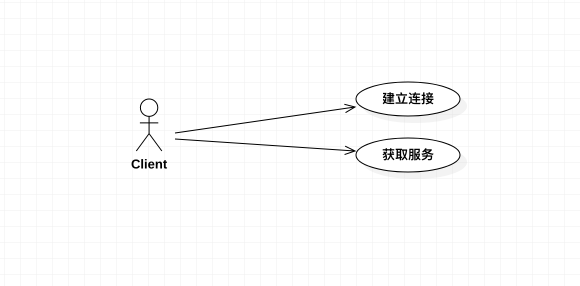
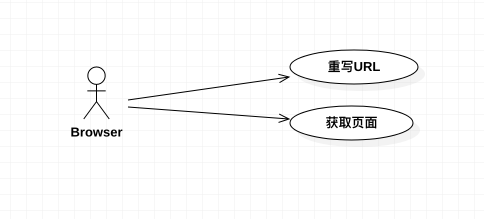
#4 #5 #6 #386 提交实验六（补交实验四、五并修改实验二、三）

diff --git a/students/1714080902333/lab2.md b/students/1714080902333/lab2.md
@@ -14,47 +14,46 @@
 1. 选题为HTTP Server
 2. 根据选题创建用例图（Use Case Diagram）
 3. 确定参与者（Actor）
-    - 客户端
+    - 浏览器
 4. 确定用例（Use Case）
-    - 建立连接
-    - 获取服务
+    - 获取页面
+    - 重写URL
 5. 建立Actor与Use Case的关联
 6. 完成用例规约（Use Case Specification）
 
 ## 四、实验结果
 
 ### 1. Use Case Diagram
-![Lab2-HTTP_UseCaseDiagram](./lab2_UseCaseDiagram.jpg)
+![lab2-HTTP_UseCaseDiagram](./lab2_UseCaseDiagram.jpg)
 
 ### 2. Use Case Specification
 
-**Specification 1**: 建立连接
+**Specification 1**: 获取页面
 
 | 用例编号 | UC01 | 备注 |
 | ------- | ---- | --- |
-| 用例名称 | 建立连接 |  |
-| 前置条件 | 客户端完成socket的配置 | 必须 |
+| 用例名称 | 获取页面 |  |
+| 前置条件 | 浏览器与服务器成功建立TCP连接 | 必须 |
 | 后置条件 |  |  |
-| 基本流程 | 1. 客户端调用connect发起连接请求； | 用例正常处理流程 |
-| ~ | 2. 服务器接收到请求，允许连接，向客户端发送应答报文； | |
-| ~ | 3. 客户端收到应答报文后从connect调用返回，提示单向连接完成并向服务器发送确认报文； | |
-| ~ | 4. 服务器收到确认报文后从accept调用返回，提示双向连接完成； | |
-| 拓展流程 | 2.1 服务器接收到请求，拒绝连接，向客户端发送RST报文； | 用例执行异常 |
-| ~ | 3.1 客户端收到RST报文，提示连接建立失败并返回errno； | |
-| ~ | 3.2 客户端未收到应答报文，connect调用超时，提示连接建立失败并返回errno； | |
+| 基本流程 | 1. 浏览器向服务器发送请求报文 | 用例正常处理流程 |
+| ~ | 2. 服务器获取浏览器请求报文 | |
+| ~ | 3. 服务器解析请求报文成功，查找页面文件 | |
+| ~ | 4. 服务器查找页面文件成功，准备响应报文 | |
+| ~ | 5. 服务器向客户端发送响应报文 | |
+| ~ | 6. 浏览器获取响应报文，显示页面 | |
+| 拓展流程 | 3.1 服务器解析请求报文失败，发送状态码400响应报文 | 用例执行异常 |
+| ~ | 4.1 服务器查找页面文件失败，发送状态码404响应报文 | |
 
-**Specification 2**: 获取服务
+**Specification 2**: 重写URL
 
 | 用例编号 | UC02 | 备注 |
 | ------- | ---- | --- |
-| 用例名称 | 获取服务 |  |
-| 前置条件 | 客户端与服务器的连接已建立 | 必须 |
+| 用例名称 | 重写URL |  |
+| 前置条件 | 浏览器与服务器成功建立TCP连接 | 必须 |
 | 后置条件 |  |  |
-| 基本流程 | 1. 客户端发送请求报文至服务器，获取相关服务 | 用例正常处理流程 |
-| ~ | 2. 服务器接收并解析请求报文 | |
-| ~ | 3. 服务器成功获取请求的资源，发送响应报文发送至客户端 | |
-| ~ | 4. 客户端接收并解析响应报文，显示资源 | |
-| 拓展流程 | 2.1 服务器无法解析请求报文，发送状态码400报文至客户端 | 用例执行异常 |
-| ~ | 2.2 服务器无法找到请求的资源，发送状态码404报文至客户端 |  |
-| ~ | 4.1 客户端收到状态码400报文，提示400 Bad Request |  |
-| ~ | 4.2 客户端收到状态码404报文，提示404 Not Found |  |
+| 基本流程 | 1. 浏览器向服务器发送URL | 用例正常处理流程 |
+| ~ | 2. 服务器获取URL | |
+| ~ | 3. 服务器匹配URL成功，重写URL | |
+| ~ | 4. 服务器向客户端发送重写后的URL | |
+| ~ | 5. 浏览器获取URL | |
+| 拓展流程 | 3.1 服务器匹配URL失败，向客户端发送原URL | 用例执行异常 |

diff --git a/students/1714080902333/lab6.md b/students/1714080902333/lab6.md
@@ -1,0 +1,27 @@
+# 实验六：交互建模
+
+## 一、实验目标
+
+1. 理解系统交互
+2. 掌握UML顺序图的画法
+3. 掌握对象交互的定义与建模方法
+
+## 二、实验内容
+
+1. 根据用例模型和类模型，确定功能所涉及的系统对象；
+2. 在顺序图上画出参与者（Object）；
+3. 在顺序图上画出消息（Interaction）。
+
+## 三、实验步骤
+
+1. 在StarUML上创建顺序图
+2. 根据用例规约和类图，画出1+N个参与者
+
+## 四、实验结果
+
+### 1. 获取页面顺序图
+![获取页面顺序图](./Lab6_SequenceDiagram1.jpg)
+
+### 2. 重写URL顺序图
+![重写URL顺序图](./Lab6_SequenceDiagram2.jpg)
+

diff --git a/students/1714080902333/lab4-5.md b/students/1714080902333/lab4-5.md
@@ -1,0 +1,27 @@
+# 实验四、五：类建模
+
+## 一、实验目标
+
+1. 掌握类建模方法；
+2. 了解MVC或你熟悉的设计模式；
+3. 了解类图（Class Diagram）画法。
+
+## 二、实验内容
+
+1. 采用Strategy设计模式来实现组件松耦合；
+2. 设计类的关系；
+3. 画出类图。
+
+## 三、实验结果
+
+### 1. 获取页面类图
+
+采用Strategy模式，使用Composition完成解析器和分发器的解耦，解析器和分发器可以通过继承更好的拓展。
+
+![获取页面类图](./Lab4-5_ClassDiagram1.jpg)
+
+### 2. 重写URL类图
+
+设计策略如上，
+
+![重写URL类图](./Lab4-5_ClassDiagram2.jpg)

diff --git a/students/1714080902333/lab3.md b/students/1714080902333/lab3.md
@@ -3,16 +3,16 @@
 ## 一、实验目标
 
 1. 掌握过程建模方法；
-2. 掌握活动图的画法。
+2. 掌握活动图（Activity Diagram）的画法。
 
 ## 二、实验内容
 
-1、根据用例规约绘制活动图。
+1. 根据用例规约绘制活动图。
 
 ## 三、实验结果
 
 ### 1. 建立连接活动图
-![建立连接活动图](./Lab3_ActivityDiagram1.jpg)
+![获取页面活动图](./Lab3_ActivityDiagram1.jpg)
 
 ### 2. 获取服务活动图
-![获取服务活动图](./Lab3_ActivityDiagram2.jpg)
+![重写URL活动图](./Lab3_ActivityDiagram2.jpg)
